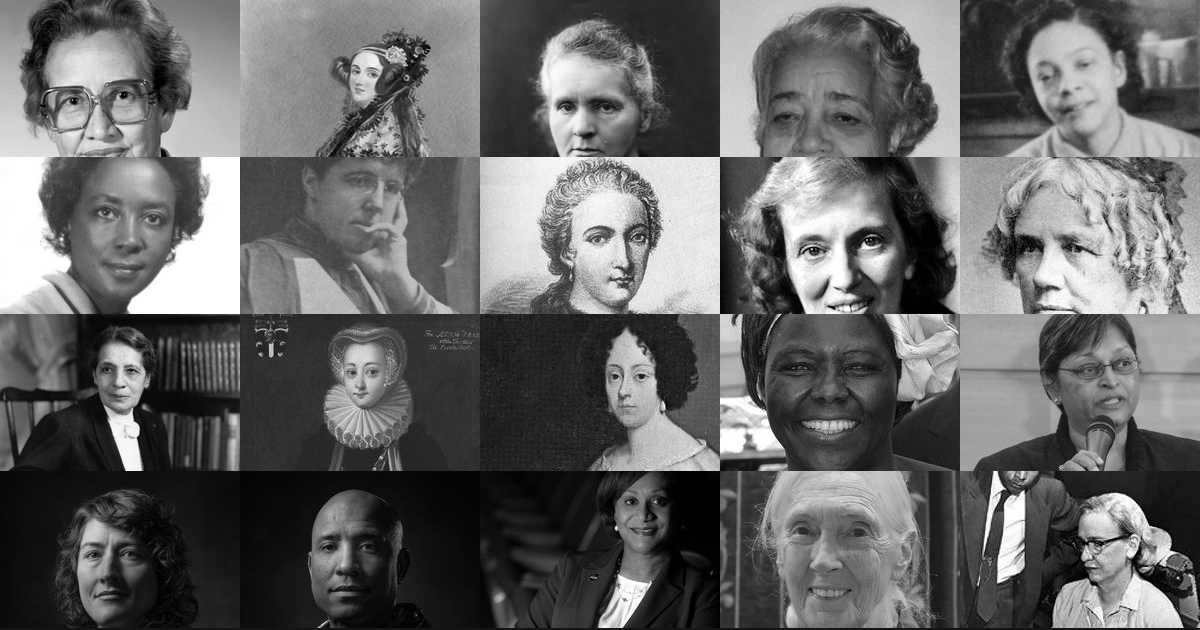
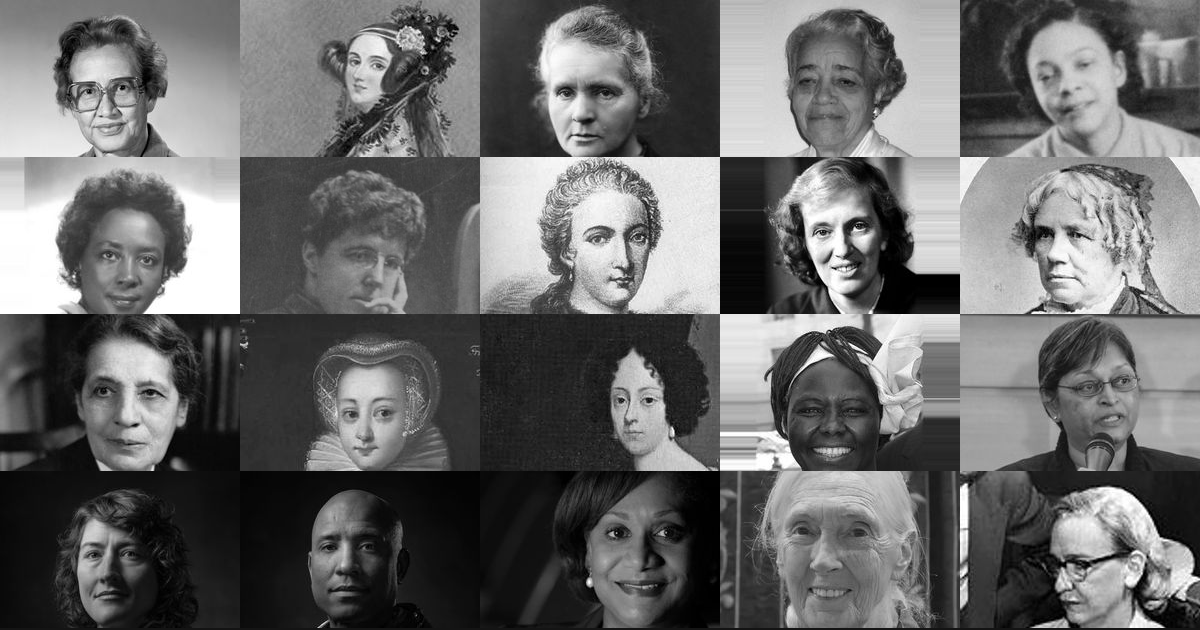
feat: keep all real values visible; tune OG crops; refresh STEM bundle
- useFactory passes nullabilityOverrides with every field set to 0 so
  the showcase doesn't hide pictures, bios, phones, etc. (DataFactory's
  default nullification was hiding Ada Lovelace's portrait and others)
- generate-og.mjs gains per-photo extractRegion + extend overrides for
  Katherine Johnson, Ada Lovelace, Marie Curie, Dorothy Vaughan, Mamie
  Clark, Annie Easley, Charlotte Scott, Agnesi, Hodgkin, Maria Mitchell,
  Lise Meitner, Sophie Brahe, Elena Piscopia, Wangari Maathai,
  Quarraisha, Vanessa Wyche, Grace Hopper. og-image.png regenerated
- debug-tiles.mjs shares portrait config with generate-og so debug
  output matches the live composite
- Bundled STEM JSON refreshed (new Chien-Shiung Wu quote upstream)

diff --git a/demo/src/composables/useFactory.ts b/demo/src/composables/useFactory.ts
@@ -55,10 +55,25 @@ export function useFactory() {
     try {
       const dataPackage = await loadDataPackage(lib);
       if (myToken !== loadToken) return; // a newer load superseded this one
+      // Showcase: keep every real value present. The factory's default
+      // nullification is useful for tests but defeats the demo's purpose.
       const f = new DataFactory(dataPackage, {
         acknowledgeDeceasedFirstNations: lib.requiresAcknowledgment
           ? isAcknowledged(id)
           : undefined,
+        nullabilityOverrides: {
+          person: {
+            bio: 0,
+            phone: 0,
+            picture: 0,
+            reference: 0,
+            address: 0,
+            quote: 0,
+            dateOfBirth: 0,
+            pronouns: 0,
+          },
+          group: { email: 0, website: 0, picture: 0, reference: 0 },
+        },
       });
       factory.value = f;
       people.value = f.getPeople();
